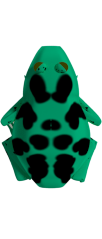
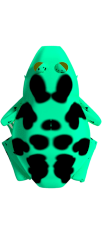
Made the frogs more colorful

Changed region(s): [[0.0, 0.1757, 1.0, 0.7908]]

diff --git a/level_editor.py b/level_editor.py
@@ -374,8 +374,10 @@ class FrogOptions(Widget):
                         "img/frog_green_sit.png"],
               "yellow": ["img/frog_yellow_jump.png",
                          "img/frog_yellow_sit.png"],
-              "blue-black": ["img/frog_black_blue_jump.png",
-                             "img/frog_black_blue_sit.png"],
+              "darkblue-black": ["img/frog_black_blue_jump.png",
+                                 "img/frog_black_blue_sit.png"],
+              "lightblue-black": ["img/frog_black_light_blue_jump.png",
+                                  "img/frog_black_light_blue_sit.png"],
               "red-black": ["img/frog_black_red_jump.png",
                             "img/frog_black_red_sit.png"],
               "turquoise-black": ["img/frog_black_turquoise_jump.png",
